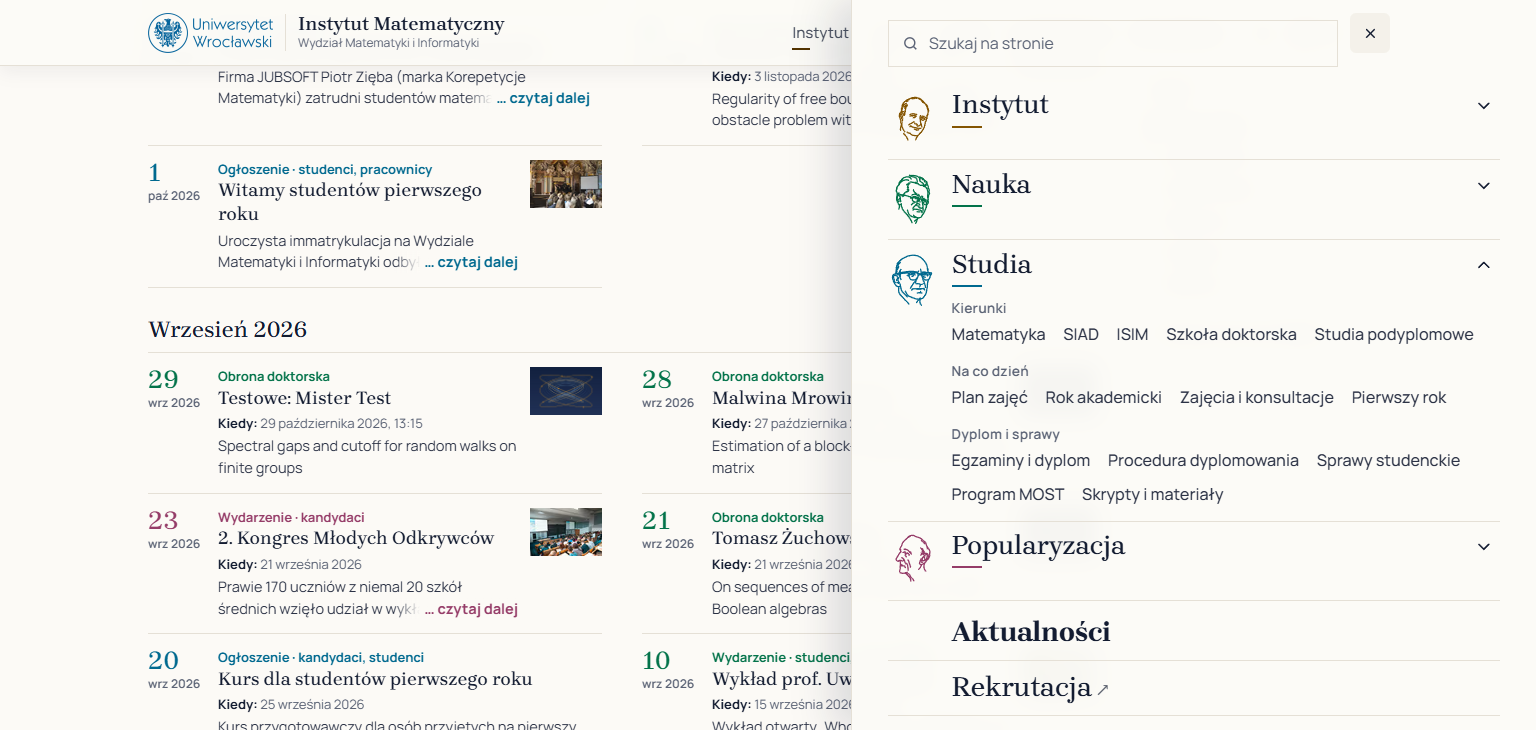
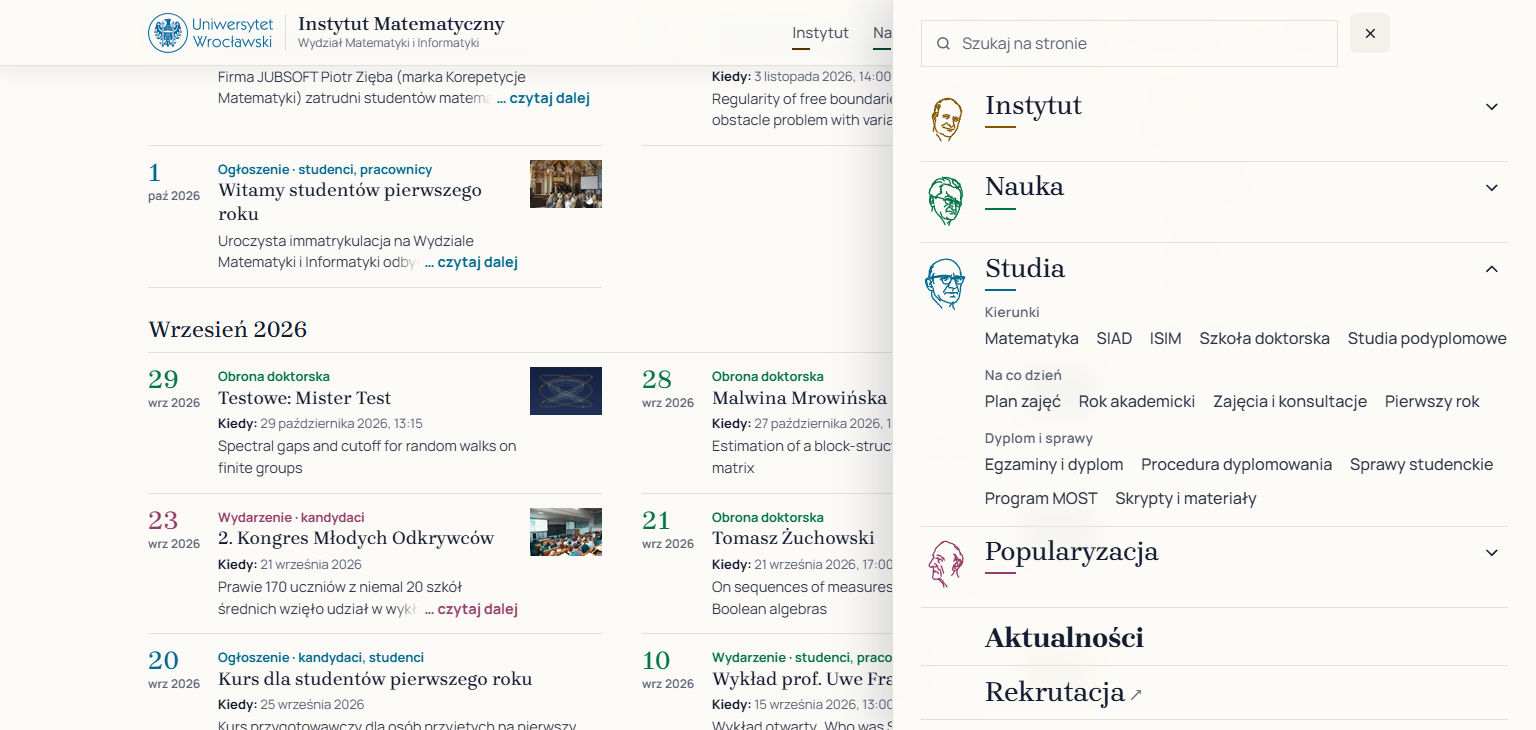
Zlecenie 20: raport i zrzuty po węższym panelu i poprawce kontrastu

Changed region(s): [[0.5312, 0.0301, 1.0, 1.0]]

diff --git a/RAPORT-ZLECENIE-20.md b/RAPORT-ZLECENIE-20.md
@@ -6,37 +6,53 @@ Gałąź: `wyglad/zlecenie-16`, osobny commit na każdy punkt. Zrobione oba punk
 | --- | --- | --- |
 | 1 | Hamburger na komputerze: większe pismo, rzędy na całą wysokość, nazwy grup bez koloru | `352f6d49` |
 | 2 | Strona działu na komputerze: pas z kafelkami i pole ze stronami | `16740eea` |
+| po odbiorze | Kafelki działu: opis i liczba stron w kolorze tekstu po najechaniu i po rozwinięciu | `101b6682` |
+| po odbiorze | Hamburger na komputerze węższy: 610–670 px zamiast 640–720 | `4a07fd08` |
 
-`astro check`: 6 błędów, tyle samo co przed zleceniem, żaden nowy. `npm run build` przechodzi.
+`astro check`: 6 błędów, tyle samo co przed zleceniem, żaden nowy (zmiany po odbiorze dotyczą tylko CSS, więc nie uruchamiałem go ponownie). `npm run build` przechodzi; po zmianach po odbiorze nie uruchamiałem.
 
 ## Do Twojej decyzji
 
-1. **Kontrast na kafelku po najechaniu i po rozwinięciu jest miejscami poniżej 4,5:1 (punkt 2).** Kolorów nie zmieniałem, tak każe zlecenie.
-   - Liczba stron (`--d-a` na `--ton`): jasny motyw Nauka 4,26, Studia 4,40; ciemny Instytut 4,45, Studia 4,48, Popularyzacja 4,35. Pozostałe 4,56–4,74.
-   - Opis grupy po najechaniu (`--muted` na `--ton`): jasny motyw 4,24–4,35, ciemny 3,68–3,79. Po rozwinięciu jest dobrze, bo opis przechodzi na `--text` (5,52–9,21).
-   - Propozycja: `.z-dz-karta:is(:hover, [aria-expanded="true"]) :is(em, small) { color: var(--text); }`. Daje 5,52–9,21. Liczba stron traci wtedy kolor działu na podświetlonym kafelku.
-2. **EN Studia przy 1536×730 przewijają się o 6 px (punkt 1).** To jedyny taki przypadek. Wartości zostawiłem, tak każe zlecenie. Możliwa droga, jeszcze niesprawdzona: krótsza etykieta „Lecture notes and materials”.
-3. **Teksty angielskie do przejrzenia (punkt 2).** Wszystkie `opis_en` i `menu_opis_en` to propozycje ze zlecenia. Całość: `dok/latki/zlecenie-20/`.
+1. **Teksty angielskie do przejrzenia (punkt 2).** Wszystkie `opis_en` i `menu_opis_en` to propozycje ze zlecenia. Całość: `dok/latki/zlecenie-20/`.
+
+## Po odbiorze: zmiany na prośbę właściciela
+
+**Kontrast kafelków.** Opis i liczba stron przy najechaniu i po rozwinięciu są w kolorze `--text`. Zmierzone prawdziwym najechaniem myszą w czterech działach i dwóch motywach: 5,52–9,21. Wcześniej liczba stron schodziła do 4,26, a opis do 3,68. Liczba stron traci na podświetlonym kafelku kolor działu. Na niepodświetlonym i na telefonie zostaje bez zmian.
+
+**Węższy panel.** Trzy zmiany naraz, bo samo zwężenie zaczynało przewijać rozwinięte Studia:
+
+| | Przedtem | Teraz |
+| --- | --- | --- |
+| Szerokość przy wysokości okna 640 → 800 px i wyżej | 640 → 720 | 610 → 670 |
+| Margines boczny panelu | 36 | 28 |
+| Ciaśniejsze rzędy: górna granica wysokości okna | 660 | 800 |
+
+- Przejrzane wysokości od 620 do 1080 px (20 wartości) przy szerokości 1366 i 1920 px, każdy dział rozwinięty i wszystkie zwinięte: **po polsku nadmiar 0 wszędzie, po angielsku 0 od wysokości 640 px wzwyż.** Zostaje EN Studia przy wysokości 620 px, 11 px jak przedtem, poniżej przyjętego minimum 640.
+- Dawne przewijanie EN Studia o 6 px przy 1536×730 zniknęło.
+- Węższe warianty (600 → 660 i 600 → 650, ten sam margines) odpadły: 7–32 px nadmiaru przy wysokościach 770–830 px, po polsku też.
+- Krzyżyk stoi co do piksela w miejscu hamburgera na okładce, a przy pasku w jego miejscu z dokładnością do różnicy rozmiaru (38 i 40 px), jak przedtem. Odstęp pola szukania od krzyżyka bez zmian: 12 px przy pasku, 42 px na okładce. Pole szukania przy 1920 px: 252 px (było 294).
+- Na okładce ikona krzyżyka stoi teraz 9 px na lewo od strzałek działów (było 1–2 px), bo krzyżyk nie mógł odjechać z miejsca hamburgera.
+- Telefon bez zmian: wszystkie zmiany są w bloku komputera, zrzuty pasa z telefonu identyczne.
 
 ## Punkt 1: hamburger
 
-**Wysokości, panel bez przewijania.** Te same liczby na stronie działu, podstronie i okładce. Nadmiar to `scrollHeight − clientHeight`, z każdym rozwiniętym działem i z żadnym.
+**Wysokości, panel bez przewijania (stan po zwężeniu).** Te same liczby na stronie działu, podstronie i okładce. Nadmiar to `scrollHeight − clientHeight`, z każdym rozwiniętym działem i z żadnym.
 
 | Okno | Panel | Rzędy zwinięte (działy, Aktualności i Rekrutacja) | Nadmiar PL | Nadmiar EN |
 | --- | --- | --- | --- | --- |
-| 1366×640 | 640×640 | 103 i 72 | 0 | 0 |
-| 1536×730 | 685×730 | 117 i 82 | 0 | 0, poza Studiami: 6 |
-| 1920×950 | 720×950 | 155 i 106 | 0 | 0 |
-| 2560×1305 | 720×1305 | 155 i 106 (górne granice, na dole pusto, zamierzone) | 0 | 0 |
+| 1366×640 | 610×640 | 103 i 72 | 0 | 0 |
+| 1536×730 | 644×730 | 118 i 81 | 0 | 0 |
+| 1920×950 | 670×950 | 155 i 106 | 0 | 0 |
+| 2560×1305 | 670×1305 | 155 i 106 (górne granice, na dole pusto, zamierzone) | 0 | 0 |
 
-- **Ruch przy 1920×950:** otwarcie panelu bez animacji (grupy bieżącego działu mają pełną wysokość już w klatce kliknięcia). Rozwinięcie i zwinięcie to około 27 klatek przejścia, największa zmiana rzędu 32 i 43 px na klatkę.
+- **Ruch przy 1920×950:** otwarcie panelu bez animacji (grupy bieżącego działu mają pełną wysokość już w klatce kliknięcia). Rozwinięcie i zwinięcie to około 27 klatek przejścia, największa zmiana rzędu 32 i 44 px na klatkę.
 - **Klawiatura:** 26 kroków Tab po panelu, 0 wejść w linki zwiniętych działów. Enter i Spacja działają na strzałce, Esc zamyka i oddaje fokus hamburgerowi.
 - **Bez JS:** grupy widoczne (158, 158, 189 i 135 px), nic nie jest ucięte, panel przewija się (1061 px treści w 640 px).
 - **Kontrast nazw grup:** granat 6,55–6,79, granat w ciemnym motywie 4,99–5,52, jasny panel 5,41–5,79, jasny panel w ciemnym motywie 6,45–7,11. Podaję oba skrajne przypadki przezroczystego tła (biel i czerń pod spodem).
 - **Telefon 390×780:** położenie i rozmiary wszystkich elementów bez zmian, zmienia się tylko kolor nazw grup.
 
 **Poza wzorem ze zlecenia** (bez tego odbiór by nie przeszedł):
-- `position: relative` na `.z-menu-grupy-w`. Niewidoczne dopiski „(external site)” ze zwiniętych grup wystawały z nich i dawały panelowi pasek przewijania, przy 1366×640 i 1536×730 na EN 10–39 px, choć treść się mieściła. Po poprawce został tylko przypadek z decyzji 2.
+- `position: relative` na `.z-menu-grupy-w`. Niewidoczne dopiski „(external site)” ze zwiniętych grup wystawały z nich i dawały panelowi pasek przewijania, przy 1366×640 i 1536×730 na EN 10–39 px, choć treść się mieściła.
 - Przejście `max-height` na rzędach. Bez niego przy zwijaniu wszystkie rzędy skakały w pierwszej klatce, a grupy na chwilę wystawały na następny rząd.
 - `padding-top: 0` na zwiniętych grupach: 4 px skoku przy rozwijaniu.
 - `!important` w regule `prefers-reduced-motion`. Reguła ze zlecenia przegrywa szczegółowością z regułami rozwijania i nie działała.
@@ -58,7 +74,7 @@ Gałąź: `wyglad/zlecenie-16`, osobny commit na każdy punkt. Zrobione oba punk
 - **Przewijanie:** pas odjeżdża ze stroną (o 500 px przewinięcia 366 → −134), `position: relative`.
 - **Bez JS:** wiersze i przycisk Rekrutacja jak dotąd, 0 kart, opisów, strzałek i drugiej Rekrutacji. Kolumna nazw grup 140 px, pasek 194 px na Studiach.
 - **Telefon 390 px:** wszystkie 19 zrzutów pasa (karty, każda grupa otwarta, cztery działy i EN Studia) identyczne co do bajtu przed i po.
-- **Kontrast poza decyzją 1:** opis grupy na `--d-t` 5,01–5,37; liczba stron na `--d-t` 5,27–6,21; opis po rozwinięciu 5,52–9,21; opis strony 5,01–5,37; nazwa strony 9,17–15,12; Rekrutacja na `--bg` 5,78–8,54.
+- **Kontrast:** opis grupy na `--d-t` 5,01–5,37; liczba stron na `--d-t` 5,27–6,21; opis i liczba stron po najechaniu i po rozwinięciu 5,52–9,21; opis strony 5,01–5,37; nazwa strony 9,17–15,12; Rekrutacja na `--bg` 5,78–8,54.
 
 **Poza wzorem ze zlecenia:**
 - `.z-dz-rzad-w { display: contents; }` na każdej szerokości, a `display: block` tylko na komputerze z JS. Otoczka z HTML-a zlecenia rozbijała siatkę wierszy bez JS.
